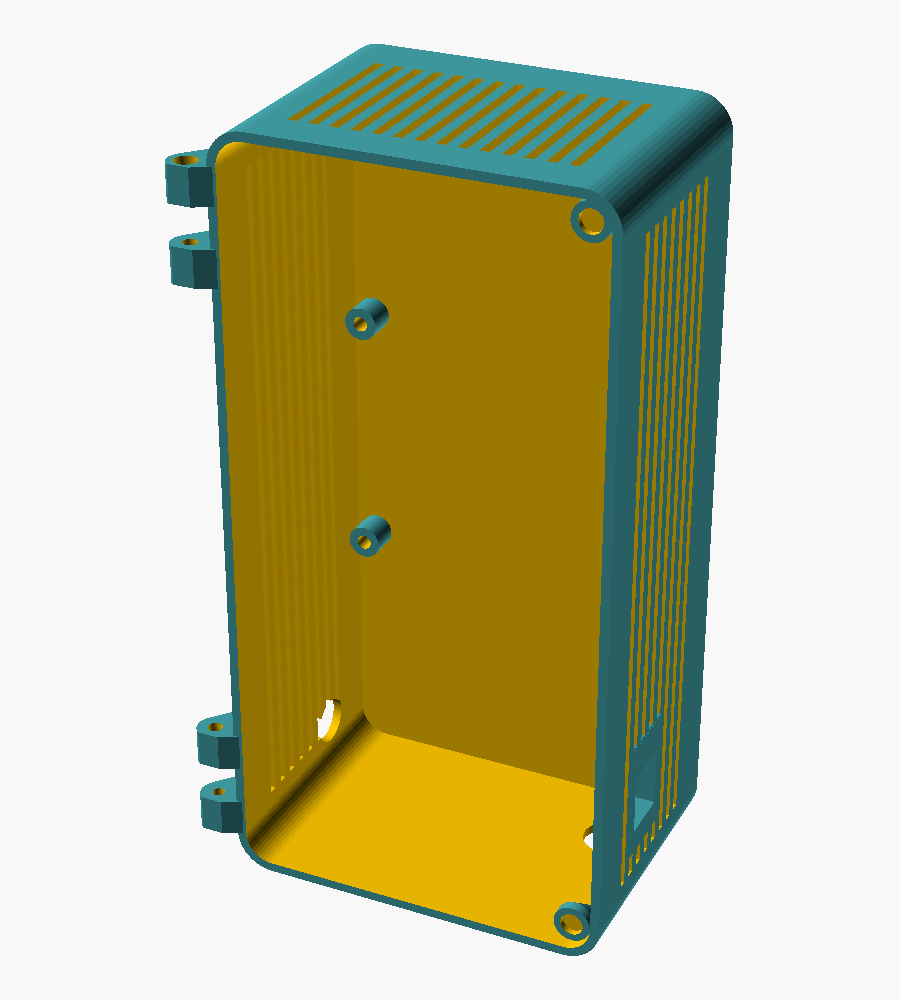
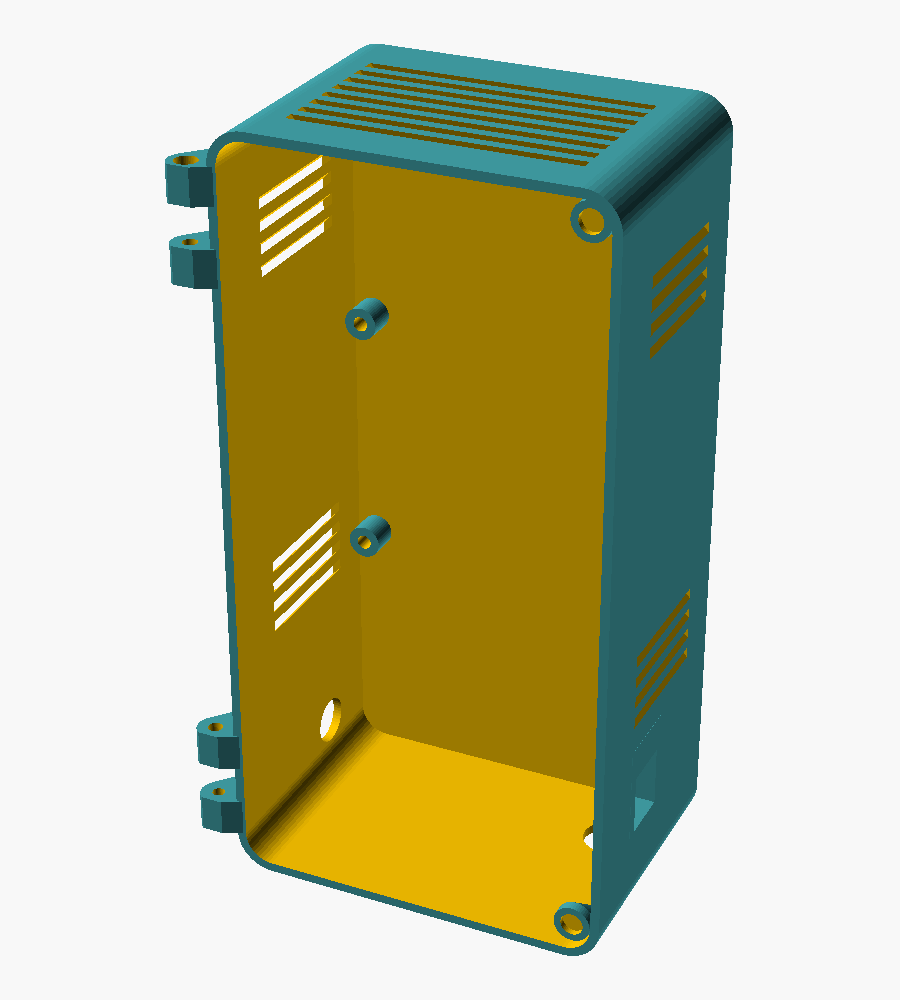
MoCA box: louvred side and top vents to match the lid

diff --git a/HANDOFF.md b/HANDOFF.md
@@ -12,7 +12,7 @@ Updated 2026-10-18 from Brian's explicit housekeeping confirmations. Read [AGENT
 - ScreenBeam jumper is Brian's braided ~220 mm right-angle F male / F female lead ([photo](work/wall-box-wizard/photos/screenbeam-jumper-2026-10-27.jpg)); an F male-male barrel joins it to the right-angle's jack above the floor (Brian, 2026-10-27). Power lead now leaves low on the left wall beside the incoming coax (power hole moved off the bottom, Brian 2026-10-27).
 - ScreenBeam cradle (Brian, 2026-10-27): `cradle15()` in c15.scad, `pick=4` in porch15.scad; vertical slots ±6 mm on four back-wall insert bosses, shelf pads + lips + Velcro strap slots.
 - Porch and cradle made support-free (2026-10-27). Porch side settled for now.
-- **Box work started (2026-10-27):** height kept (room for cradle travel). Hinge lid + magnet catch in `concept15/body15.scad` (`lid_style="hinge"`, `lid_magnets=[6,3]` placeholder), print-friendly knuckles and support-free magnet blocks; renders `box15_hinge_*.png`. Brian then picked **louvre** (two slot bands on the lid), gave magnets **6 x 1.6 mm**, and ruled out a filament pin: hinge is now two M3 screw + heat-set insert sets (see Scope). Next: Brian reviews; then decide whether side/top vents get the louvre look, and move the box changes into the wall_box template.
+- **Box work started (2026-10-27):** height kept (room for cradle travel). Hinge lid + magnet catch in `concept15/body15.scad` (`lid_style="hinge"`, `lid_magnets=[6,3]` placeholder), print-friendly knuckles and support-free magnet blocks; renders `box15_hinge_*.png`. Brian then picked **louvre** (two slot bands on the lid), gave magnets **6 x 1.6 mm**, and ruled out a filament pin: hinge is now two M3 screw + heat-set insert sets (see Scope). Side and top vents now louvred to match (`body_louvre_cut()`). Next: Brian reviews; then move the box changes (floor slots, keystone, power hole, cradle bosses, M3 hinge sets, magnets, louvres) into the wall_box template.
 - Next (Brian, 2026-10-27): work on the MoCA box itself in a new session. Continue prompt: [docs/prompts/2026-10-27_moca-box-continue.md](docs/prompts/2026-10-27_moca-box-continue.md). Calipers on the splitter still needed; later move the concept 15 box changes into the wall_box template. Scratch renders only; nothing printed; splitter sizes are photo estimates (calipers still needed); fit, travel and adapter sizes UNKNOWN.
 
 ## 2026-10-26 MoCA wall box: flat-splitter porch concepts 12-14 (superseded by concept 15 above)

diff --git a/work/wall-box-wizard/Scope.md b/work/wall-box-wizard/Scope.md
@@ -60,7 +60,7 @@ Idea from `work/notes/2026-10-22-feet-floor-and-wall-box-wizard.md`: an indoor, 
 ## Still open
 
 - Splitter: caliper checks of the photo estimates above, mainly the OUT port spacing and port axis height.
-- Style pick: louvre (Brian, 2026-10-27); side/top vents not yet restyled.
+- Style pick: louvre (Brian, 2026-10-27), on the lid and (same day) the side and top vents: sides have a top band level with the lid's and a lower band at Z60-80 (clear of keystone and power hole), Y20..di-12 (clear of the hinge knuckles); top has one band of slots across the width sloping back 45° ([render](concept15/box15_louvre_side.png)).
 
 - Default wall thickness is a parameter; generic wall guidance stays UNKNOWN.
 - ECB7250: which measurement is which (120 long x 65 wide x 30 tall assumed), port heights on the ends.
